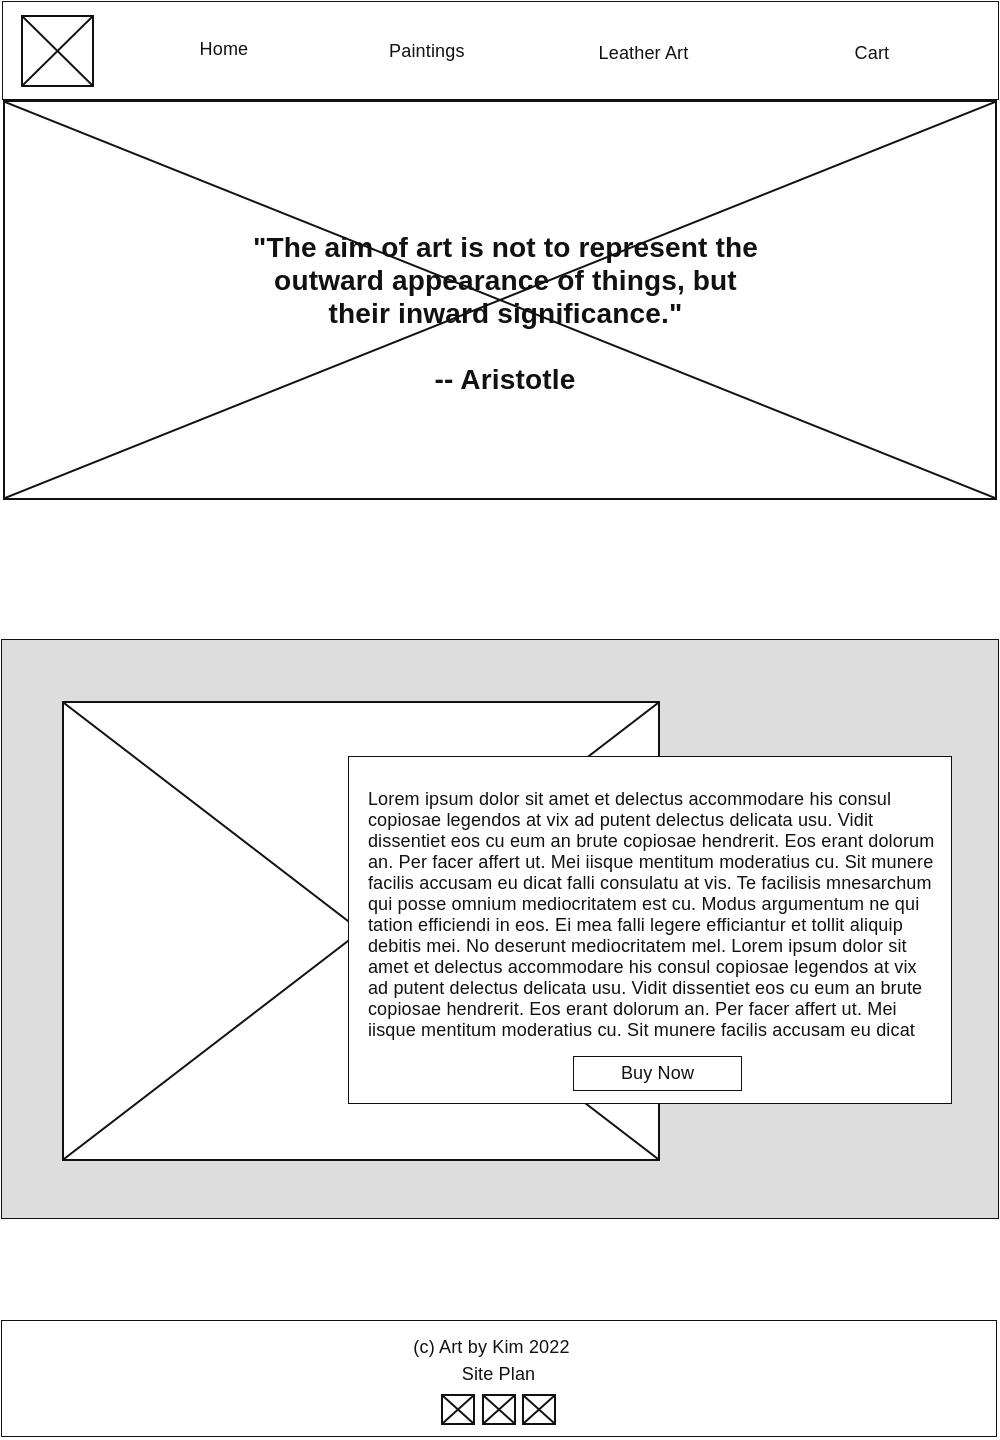
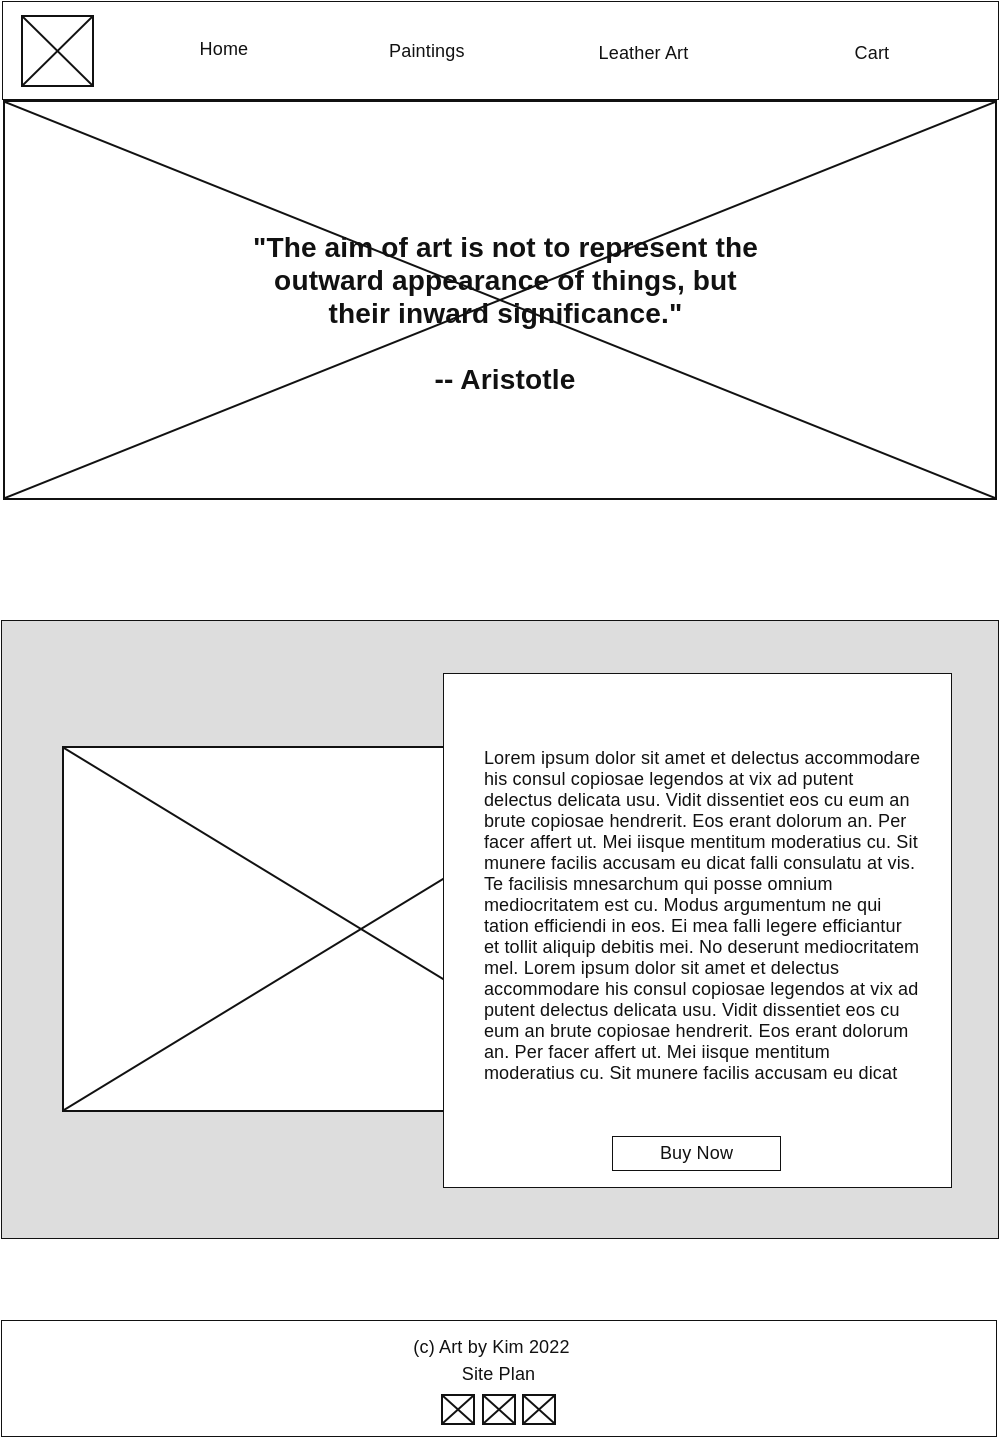
personal site updated

diff --git a/artbykim/index.html b/artbykim/index.html
@@ -36,6 +36,7 @@
             <div id="background"></div>
             <img class="mountains" src="images/leather_art.jpg" alt="leather art">
             <section class="msg">
+                <h2>Welcome to Art by Kim!</h2>
                 <p>Have you ever experienced going to an art museum and felt like you have traveled 
                     the world after looking at the art collection? Do you like browsing art pieces 
                     and appreciate them online? Or do you love to collect paintings from local artists?
@@ -45,8 +46,9 @@
                     capturing the beauty of the scenery by drawing and painting them on his sketchpad. 
                     He uses art mediums such as acrylic, oil, sketch, and watercolor. For him, it is his 
                     way of capturing the wonderful memory of his travels. He wants to show everyone his 
-                    art collection online and share some of his paintings with art collectors! Kim also 
-                    has a great talent for leather carving. He can craft different styles using leather 
+                    art collection online and share some of his paintings with art collectors! 
+                    <br><br>
+                    Kim also has a great talent for leather carving. He can craft different styles using leather 
                     with bags, treasure boxes, clothing, customized belts, album covers, and a lot more! 
                     You can personally message him for a customized leather product.
                     <br><br>

diff --git a/artbykim/styles/style.css b/artbykim/styles/style.css
@@ -120,7 +120,7 @@ main section img {
 }
 
 #background {
-    height: 750px;
+    height: 840px;
     background-color: #576CA8;
     grid-column: 1/11;
     grid-row: 6/11;
@@ -141,6 +141,12 @@ main section img {
     padding-bottom: 15px;
 }
 
+.msg h2 {
+    color: #274690;
+    font-size: 1em;
+    padding-bottom: 15px;
+}
+
 .join {
     background-color: #274690;
     color: #ffffff;
@@ -153,7 +159,7 @@ main section img {
 
 .join:hover {
     background-color: #576CA8;
-    color: #B76D68;
+    color: white;
 }
 
 
@@ -216,7 +222,7 @@ footer a {
 
 footer h3 a:hover {
     background-color: #B76D68;
-    color: white;
+    color: #576CA8;
     text-decoration: underline;
 }
 
